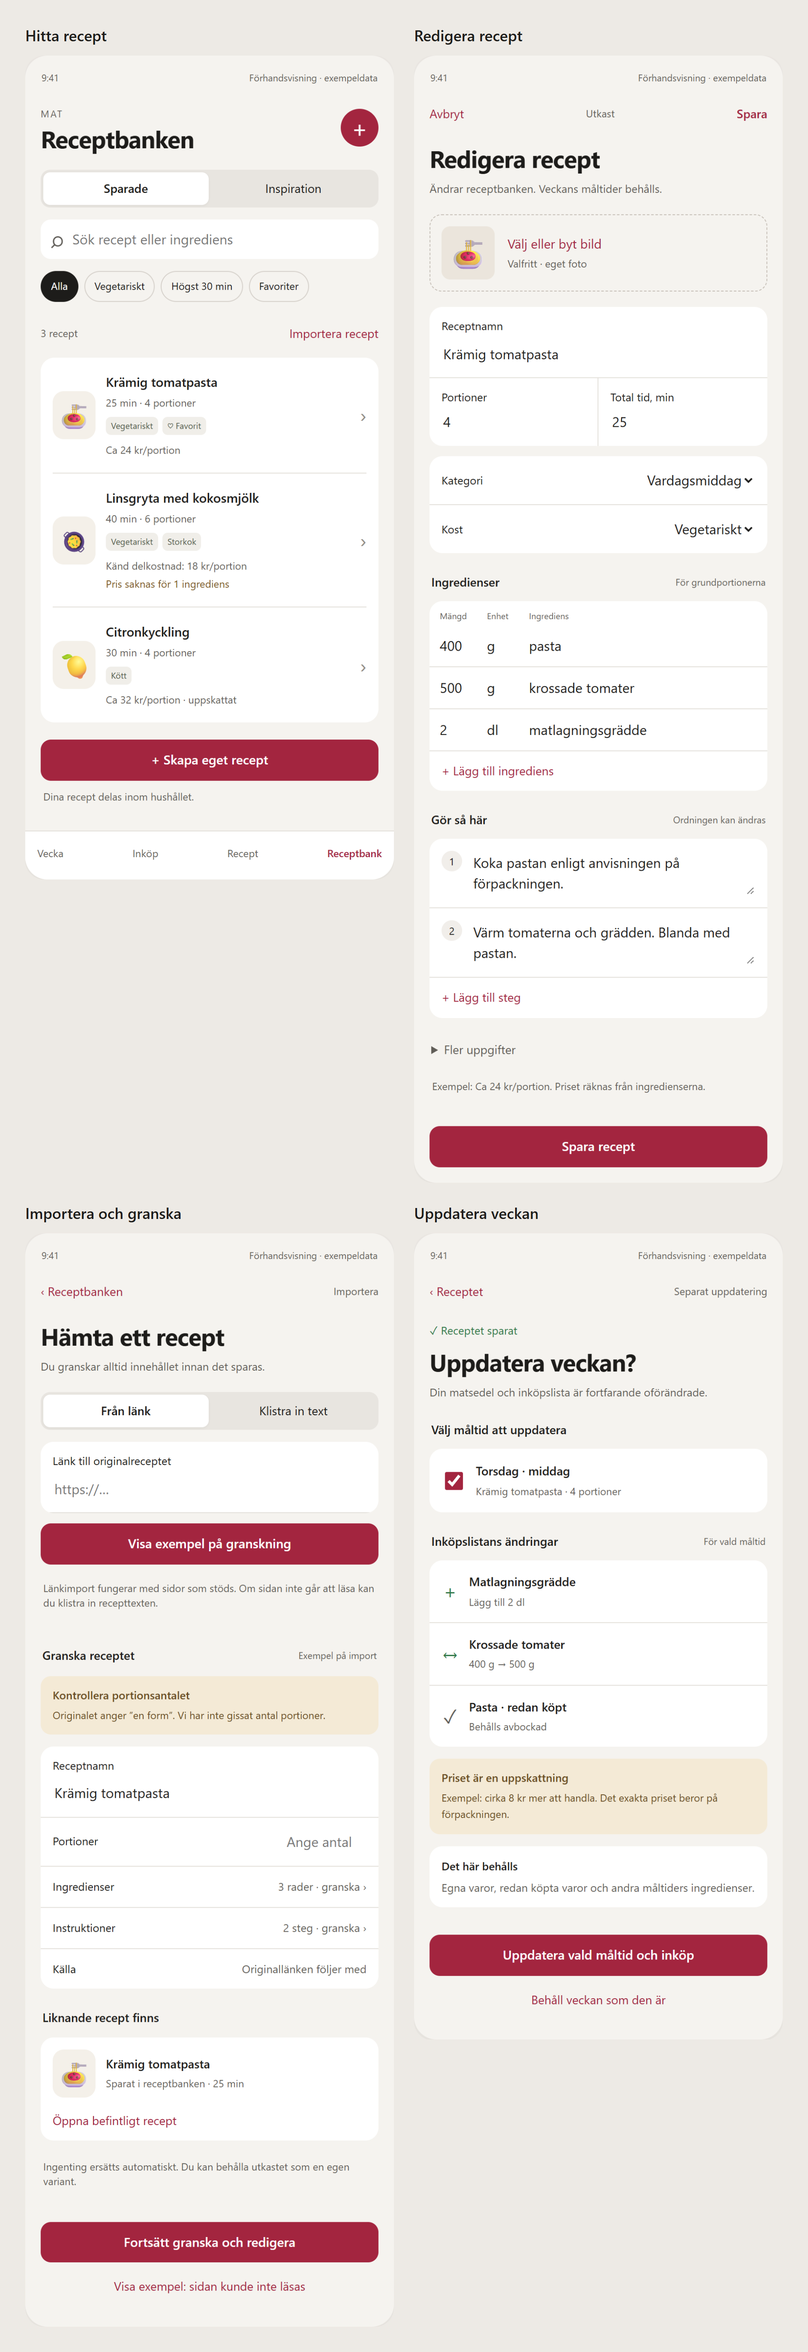
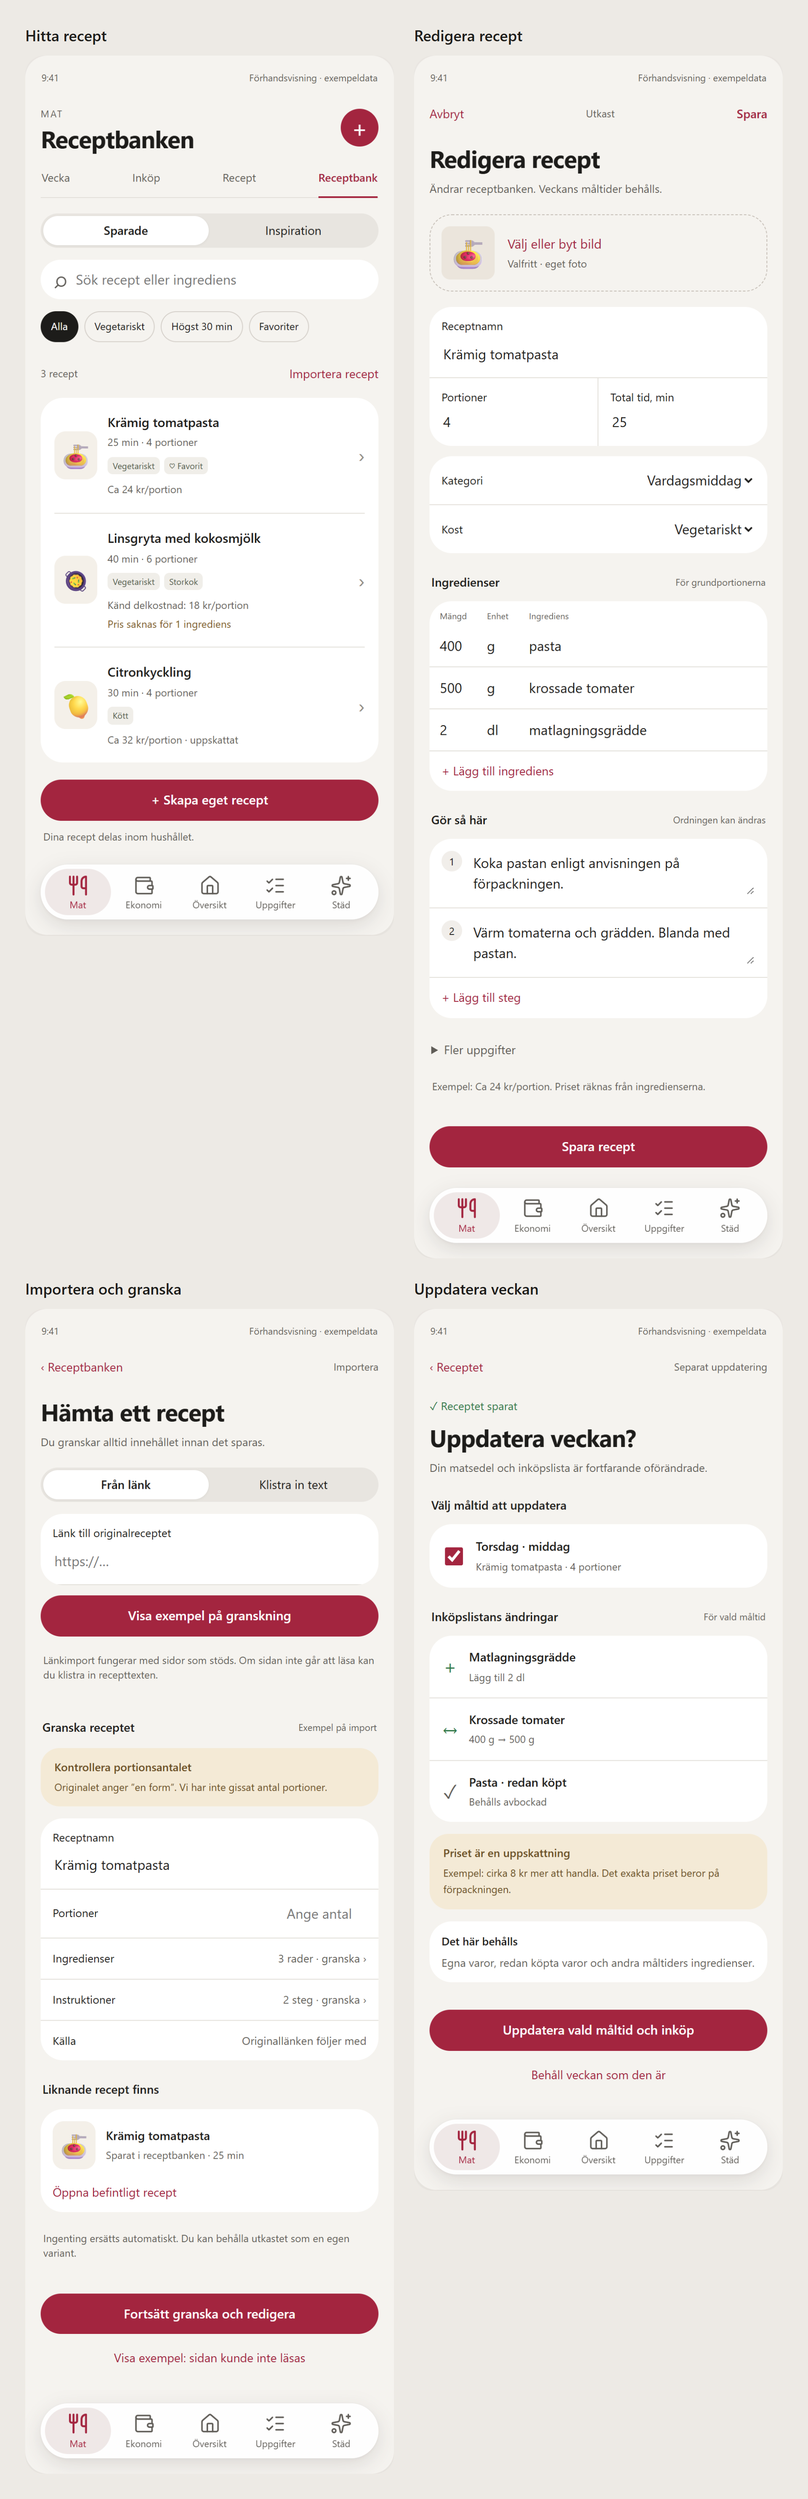
Receptskisser: följ Runda och Piller genom hela flödet
Gemensamma former och huvudmeny i utfällt och kompakt läge. Endast designunderlag.

Agent: Codex

diff --git a/docs/mockups/recipe-management.html b/docs/mockups/recipe-management.html
@@ -5,12 +5,14 @@
     <button type="button" data-screen="import" aria-pressed="false">Importera</button>
     <button type="button" data-screen="impact" aria-pressed="false">Uppdatera veckan</button>
   </nav>
+  <div class="rp-menu-preview" role="group" aria-label="Förhandsvisa piller-menyn"><span>Meny:</span><button type="button" data-menu="expanded" aria-pressed="true">Utfälld</button><button type="button" data-menu="compact" aria-pressed="false">Vid scrollning</button></div>
   <div class="rp-stage">
     <main class="rp-phone" aria-label="Hushållstavlan, ljus receptskiss">
       <div class="rp-status"><span>9:41</span><span>Förhandsvisning · exempeldata</span></div>
 
       <section data-page="library" aria-label="Receptbibliotek">
         <div class="rp-top"><div><span class="rp-eyebrow">MAT</span><h1>Receptbanken</h1></div><button class="rp-circle" data-go="editor" aria-label="Nytt recept">+</button></div>
+        <div class="rp-subnav" aria-label="Mat, underavdelningar"><span>Vecka</span><span>Inköp</span><span>Recept</span><span class="rp-active">Receptbank</span></div>
         <div class="rp-segment" aria-label="Receptkälla"><button aria-pressed="true" data-source="saved">Sparade</button><button aria-pressed="false" data-source="inspiration">Inspiration</button></div>
         <label class="rp-search"><span aria-hidden="true">⌕</span><input id="rp-query" type="search" placeholder="Sök recept eller ingrediens" aria-label="Sök recept eller ingrediens"></label>
         <div class="rp-filters" aria-label="Filtrera recepten"><button data-filter="all" aria-pressed="true">Alla</button><button data-filter="veg" aria-pressed="false">Vegetariskt</button><button data-filter="quick" aria-pressed="false">Högst 30 min</button><button data-filter="fav" aria-pressed="false">Favoriter</button></div>
@@ -23,7 +25,6 @@
         <div id="rp-empty" class="rp-empty" hidden>Inga recept matchar.<button class="rp-link" id="rp-clear">Rensa sökning och filter</button></div>
         <button class="rp-primary rp-bottom" data-go="editor">+ Skapa eget recept</button>
         <div class="rp-footnote">Dina recept delas inom hushållet.</div>
-        <div class="rp-app-nav" aria-label="Exempel på befintlig Mat-navigering"><span>Vecka</span><span>Inköp</span><span>Recept</span><span class="rp-active">Receptbank</span></div>
       </section>
 
       <section data-page="editor" aria-label="Receptredigering" hidden>
@@ -81,16 +82,29 @@
         <button class="rp-secondary" data-go="library">Behåll veckan som den är</button>
         <p class="rp-feedback" id="rp-impact-feedback" aria-live="polite" hidden></p>
       </section>
+      <div class="rp-global-menu-area">
+        <nav class="rp-global-menu" aria-label="Huvudmeny, piller">
+          <button type="button" aria-current="page" aria-label="Mat"><i data-lucide="utensils" aria-hidden="true"></i><span>Mat</span></button>
+          <button type="button" aria-label="Ekonomi"><i data-lucide="wallet" aria-hidden="true"></i><span>Ekonomi</span></button>
+          <button type="button" aria-label="Översikt"><i data-lucide="house" aria-hidden="true"></i><span>Översikt</span></button>
+          <button type="button" aria-label="Uppgifter"><i data-lucide="list-checks" aria-hidden="true"></i><span>Uppgifter</span></button>
+          <button type="button" aria-label="Städ"><i data-lucide="sparkles" aria-hidden="true"></i><span>Städ</span></button>
+        </nav>
+      </div>
+      <div class="rp-menu-message" aria-live="polite" hidden></div>
     </main>
   </div>
 </div>
 <style>
-#ht-recipe-design{--rp-bg:#f5f3ef;--rp-surface:#fff;--rp-ink:#1d1c1a;--rp-muted:#5f5c57;--rp-line:#e3e0da;--rp-accent:#a3253f;--rp-soft:#f3e8eb;--rp-green:#2d7645;--rp-warn:#7a5620;color-scheme:light;font:400 15px/1.45 -apple-system,BlinkMacSystemFont,'Segoe UI',sans-serif;padding:16px 8px 24px;color:var(--rp-ink)}
+#ht-recipe-design{--rp-bg:#f5f3ef;--rp-surface:#fff;--rp-ink:#1d1c1a;--rp-muted:#5f5c57;--rp-line:#e3e0da;--rp-accent:#a3253f;--rp-soft:#f3e8eb;--rp-green:#2d7645;--rp-warn:#7a5620;--rp-card-radius:26px;--rp-control-radius:999px;--rp-notice-radius:22px;color-scheme:light;font:400 15px/1.45 -apple-system,BlinkMacSystemFont,'Segoe UI',sans-serif;padding:16px 8px 24px;color:var(--rp-ink)}
 #ht-recipe-design *{box-sizing:border-box}
 #ht-recipe-design [hidden]{display:none!important}
 #ht-recipe-design .rp-preview-nav{display:flex;flex-wrap:wrap;gap:6px;justify-content:center;margin:0 auto 18px;max-width:470px}
 #ht-recipe-design .rp-preview-nav button{font:inherit;font-size:13px;border:1px solid var(--rp-line);border-radius:20px;padding:9px 12px;background:var(--rp-surface);color:var(--rp-ink)}
 #ht-recipe-design .rp-preview-nav button[aria-pressed=true]{background:var(--rp-ink);color:var(--rp-surface);border-color:var(--rp-ink)}
+#ht-recipe-design .rp-menu-preview{display:flex;align-items:center;justify-content:center;gap:8px;margin:0 auto 18px;font-size:12px;color:var(--rp-muted);flex-wrap:wrap}
+#ht-recipe-design .rp-menu-preview button{background:#fff;border:1px solid var(--rp-line);padding:7px 12px;border-radius:999px;font-size:12px;min-height:36px}
+#ht-recipe-design .rp-menu-preview button[aria-pressed=true]{background:var(--rp-ink);color:#fff;border-color:var(--rp-ink)}
 #ht-recipe-design .rp-stage{display:flex;justify-content:center}
 #ht-recipe-design .rp-phone{width:100%;max-width:430px;min-width:0;border-radius:26px;background:var(--rp-bg);padding:18px 18px 0;box-shadow:0 6px 28px #29221c12;overflow:hidden}
 #ht-recipe-design .rp-status{font-size:11px;color:var(--rp-muted);display:flex;justify-content:space-between;gap:12px;padding:0 1px 22px}
@@ -104,10 +118,10 @@
 #ht-recipe-design .rp-top{display:flex;justify-content:space-between;align-items:center;margin-bottom:20px;gap:10px}
 #ht-recipe-design .rp-eyebrow{font-size:11px;color:var(--rp-muted);letter-spacing:1.5px}
 #ht-recipe-design .rp-circle{background:var(--rp-accent);border:0;color:#fff;border-radius:50%;width:44px;font-size:27px;font-weight:400;flex-shrink:0}
-#ht-recipe-design .rp-segment{display:flex;padding:3px;background:#e8e5e0;border-radius:11px;margin-bottom:14px;gap:3px}
-#ht-recipe-design .rp-segment button{flex:1;border:0;background:transparent;border-radius:8px;font-size:14px;min-height:38px}
+#ht-recipe-design .rp-segment{display:flex;padding:3px;background:#e8e5e0;border-radius:var(--rp-control-radius);margin-bottom:14px;gap:3px}
+#ht-recipe-design .rp-segment button{flex:1;border:0;background:transparent;border-radius:var(--rp-control-radius);font-size:14px;min-height:34px}
 #ht-recipe-design .rp-segment button[aria-pressed=true]{background:#fff;box-shadow:0 1px 3px #0000000d;font-weight:600}
-#ht-recipe-design .rp-search{display:flex;gap:8px;align-items:center;padding:0 12px;background:#fff;border-radius:12px;margin:14px 0}
+#ht-recipe-design .rp-search{display:flex;gap:8px;align-items:center;padding:0 16px;background:#fff;border-radius:var(--rp-control-radius);margin:14px 0}
 #ht-recipe-design .rp-search span{font-size:26px;color:var(--rp-muted)}
 #ht-recipe-design .rp-search input{width:100%;min-width:0;border:0;background:transparent;min-height:46px;font-size:16px;color:var(--rp-ink)}
 #ht-recipe-design .rp-filters{display:flex;gap:7px;flex-wrap:wrap;margin-bottom:15px}
@@ -115,7 +129,7 @@
 #ht-recipe-design .rp-filters button[aria-pressed=true]{background:var(--rp-ink);border-color:var(--rp-ink);color:#fff}
 #ht-recipe-design .rp-list-head{display:flex;align-items:center;justify-content:space-between;font-size:12px;color:var(--rp-muted);margin-bottom:6px;gap:8px}
 #ht-recipe-design .rp-link{border:0;background:transparent;color:var(--rp-accent);padding:6px 0;font-size:14px}
-#ht-recipe-design .rp-recipes{background:#fff;border-radius:16px;padding:0 14px}
+#ht-recipe-design .rp-recipes{background:#fff;border-radius:var(--rp-card-radius);padding:0 16px}
 #ht-recipe-design .rp-recipe{border:0;border-bottom:1px solid var(--rp-line);background:transparent;text-align:left;display:flex;align-items:center;gap:12px;width:100%;padding:18px 0}
 #ht-recipe-design .rp-recipe:last-child{border-bottom:0}
 #ht-recipe-design .rp-grow{flex:1;min-width:0}
@@ -125,22 +139,23 @@
 #ht-recipe-design .rp-chevron{color:#8f8a83;font-size:24px}
 #ht-recipe-design .rp-price{margin-top:9px}
 #ht-recipe-design .rp-caution{color:var(--rp-warn)}
-#ht-recipe-design .rp-primary{width:100%;padding:13px 14px;border:0;border-radius:12px;background:var(--rp-accent);color:#fff;font-size:15px;font-weight:600}
+#ht-recipe-design .rp-primary{width:100%;padding:13px 18px;border:0;border-radius:var(--rp-control-radius);background:var(--rp-accent);color:#fff;font-size:15px;font-weight:600}
 #ht-recipe-design .rp-primary:disabled{background:#d7d2ce;color:#635e58}
 #ht-recipe-design .rp-bottom{margin-top:20px}
-#ht-recipe-design .rp-secondary{width:100%;padding:12px;border:0;background:transparent;color:var(--rp-accent);font-size:14px;margin:6px 0}
+#ht-recipe-design .rp-secondary{width:100%;padding:12px;border:0;border-radius:var(--rp-control-radius);background:transparent;color:var(--rp-accent);font-size:14px;margin:6px 0}
 #ht-recipe-design .rp-footnote{font-size:12px;color:var(--rp-muted);padding:10px 3px 18px}
-#ht-recipe-design .rp-app-nav{display:flex;justify-content:space-between;gap:8px;background:#fff;margin:12px -18px 0;padding:17px 14px 22px;font-size:12px;color:var(--rp-muted);border-top:1px solid var(--rp-line)}
+#ht-recipe-design .rp-subnav{display:flex;justify-content:space-between;gap:8px;margin:0 0 18px;padding:0 1px 13px;font-size:13px;color:var(--rp-muted);border-bottom:1px solid var(--rp-line)}
+#ht-recipe-design .rp-subnav .rp-active{border-bottom:2px solid var(--rp-accent);padding-bottom:12px;margin-bottom:-14px}
 #ht-recipe-design .rp-active{color:var(--rp-accent);font-weight:600}
 #ht-recipe-design .rp-toolbar{display:flex;align-items:center;justify-content:space-between;gap:12px;font-size:12px;color:var(--rp-muted);margin-top:-10px;margin-bottom:14px}
 #ht-recipe-design .rp-heavy{font-weight:600}
 #ht-recipe-design .rp-editor-head{margin-bottom:20px}
 #ht-recipe-design .rp-editor-head p{font-size:13px;line-height:1.55}
-#ht-recipe-design .rp-photo{position:relative;display:flex;align-items:center;gap:15px;border:1px dashed #c6bfb7;border-radius:14px;padding:13px;margin-bottom:18px;color:var(--rp-accent);overflow:hidden}
+#ht-recipe-design .rp-photo{position:relative;display:flex;align-items:center;gap:15px;border:1px dashed #c6bfb7;border-radius:var(--rp-card-radius);padding:13px;margin-bottom:18px;color:var(--rp-accent);overflow:hidden}
 #ht-recipe-design .rp-photo>span:first-child{font-size:34px;background:#ebe5dc;border-radius:10px;min-width:62px;height:62px;display:grid;place-items:center;overflow:hidden}
 #ht-recipe-design .rp-photo img{width:62px;height:62px;object-fit:cover}
 #ht-recipe-design .rp-photo input{position:absolute;inset:0;width:100%;height:100%;opacity:0}
-#ht-recipe-design .rp-group{background:#fff;border-radius:15px;margin:12px 0;overflow:hidden}
+#ht-recipe-design .rp-group{background:#fff;border-radius:var(--rp-card-radius);margin:12px 0;overflow:hidden}
 #ht-recipe-design .rp-field{display:flex;align-items:center;justify-content:space-between;gap:12px;padding:13px 14px;border-bottom:1px solid var(--rp-line);font-size:13px;min-width:0}
 #ht-recipe-design .rp-field:last-child{border-bottom:0}
 #ht-recipe-design .rp-field input,#ht-recipe-design .rp-field select{min-width:0;max-width:58%;width:140px;min-height:30px;border:0;background:transparent;text-align:right;color:var(--rp-ink);font-size:16px}
@@ -164,7 +179,7 @@
 #ht-recipe-design .rp-more summary{padding:10px 2px;min-height:44px}
 #ht-recipe-design .rp-check{display:flex;align-items:center;gap:10px;padding:14px}
 #ht-recipe-design input[type=checkbox]{accent-color:var(--rp-accent);width:21px;height:21px;flex-shrink:0}
-#ht-recipe-design .rp-notice{background:#f4ead6;color:#684b20;border-radius:12px;padding:13px 14px;margin:14px 0;font-size:13px}
+#ht-recipe-design .rp-notice{background:#f4ead6;color:#684b20;border-radius:var(--rp-notice-radius);padding:13px 16px;margin:14px 0;font-size:13px}
 #ht-recipe-design .rp-notice span{display:block;font-size:12px;margin-top:4px;line-height:1.6}
 #ht-recipe-design .rp-row{display:flex;justify-content:space-between;gap:12px;padding:14px;border-bottom:1px solid var(--rp-line);font-size:13px}
 #ht-recipe-design .rp-row:last-child{border:0}
@@ -178,11 +193,27 @@
 #ht-recipe-design .rp-muted{color:var(--rp-muted)}
 #ht-recipe-design .rp-wrap{flex-direction:column;gap:6px}
 #ht-recipe-design .rp-wrap>span:last-child{text-align:left}
-#ht-recipe-design .rp-feedback{padding:12px;background:#e6efe5;border-radius:10px;font-size:13px;color:#245d33;margin:12px 0}
+#ht-recipe-design .rp-feedback{padding:12px 16px;background:#e6efe5;border-radius:var(--rp-notice-radius);font-size:13px;color:#245d33;margin:12px 0}
 #ht-recipe-design .rp-empty{padding:22px 5px;text-align:center;color:var(--rp-muted)}
 #ht-recipe-design .rp-empty button{display:block;margin:auto}
 #ht-recipe-design section[data-page]:not([data-page=library]){padding-bottom:18px}
-@media(max-width:370px){#ht-recipe-design{padding:10px 0}#ht-recipe-design .rp-phone{padding:15px 12px 0}#ht-recipe-design .rp-app-nav{margin-left:-12px;margin-right:-12px}#ht-recipe-design h1{font-size:26px}#ht-recipe-design .rp-recipe{gap:8px}#ht-recipe-design .rp-food{width:42px;font-size:25px}#ht-recipe-design .rp-filters button{padding:6px 9px}}
+#ht-recipe-design .rp-global-menu-area{height:88px;display:flex;justify-content:center;align-items:start;padding:6px 0 18px;position:relative}
+#ht-recipe-design .rp-global-menu{width:100%;height:64px;display:flex;align-items:center;padding:4px;border-radius:999px;background:rgba(255,255,255,.94);border:.5px solid #fff;box-shadow:0 7px 22px #29221c20,0 1px 3px #29221c0a;backdrop-filter:blur(24px);transition:width .4s,height .4s,transform .4s}
+#ht-recipe-design .rp-global-menu button{flex:1;min-width:0;height:54px;min-height:44px;display:flex;flex-direction:column;align-items:center;justify-content:center;gap:3px;border:0;border-radius:999px;background:transparent;padding:4px 0;color:var(--rp-muted);font-size:11px;line-height:13px}
+#ht-recipe-design .rp-global-menu button[aria-current=page]{background:#efe8e7;color:var(--rp-accent)}
+#ht-recipe-design .rp-global-menu svg{width:25px;height:25px;stroke-width:1.7}
+#ht-recipe-design .rp-global-menu button[aria-current=page] svg{stroke-width:2.2}
+#ht-recipe-design .rp-global-menu button>span{max-height:14px;opacity:1;transition:opacity .2s,max-height .4s}
+#ht-recipe-design .rp-global-menu button>i{width:25px;height:25px;display:block}
+#ht-recipe-design .rp-phone.rp-compact .rp-global-menu-area{align-items:end;padding-bottom:0}
+#ht-recipe-design .rp-phone.rp-compact .rp-global-menu{width:172px;height:56px;transform:translateY(31px);padding:2px 8px 0;align-items:start}
+#ht-recipe-design .rp-phone.rp-compact .rp-global-menu button{height:22px;min-height:22px;gap:0;padding:0;border-radius:0}
+#ht-recipe-design .rp-phone.rp-compact .rp-global-menu button[aria-current=page]{background:transparent}
+#ht-recipe-design .rp-phone.rp-compact .rp-global-menu svg{width:20px;height:20px}
+#ht-recipe-design .rp-phone.rp-compact .rp-global-menu button>span{max-height:0;opacity:0;overflow:hidden}
+#ht-recipe-design .rp-menu-message{padding:12px;color:var(--rp-muted);font-size:12px;background:#fff;border-radius:22px;margin-bottom:16px}
+@media(prefers-reduced-motion:reduce){#ht-recipe-design .rp-global-menu,#ht-recipe-design .rp-global-menu *{transition:none}}
+@media(max-width:370px){#ht-recipe-design{padding:10px 0}#ht-recipe-design .rp-phone{padding:15px 12px 0}#ht-recipe-design h1{font-size:26px}#ht-recipe-design .rp-recipe{gap:8px}#ht-recipe-design .rp-food{width:42px;font-size:25px}#ht-recipe-design .rp-filters button{padding:6px 9px}}
 </style>
 <script>
 (()=>{
@@ -190,6 +221,8 @@ const root=document.getElementById('ht-recipe-design');
 const pages=[...root.querySelectorAll('[data-page]')];
 function screen(name){pages.forEach(p=>p.hidden=p.dataset.page!==name);root.querySelectorAll('[data-screen]').forEach(b=>b.setAttribute('aria-pressed',String(b.dataset.screen===name)));}
 root.querySelectorAll('[data-screen],[data-go]').forEach(b=>b.addEventListener('click',()=>screen(b.dataset.screen||b.dataset.go)));
+root.querySelectorAll('[data-menu]').forEach(b=>b.addEventListener('click',()=>{root.querySelector('.rp-phone').classList.toggle('rp-compact',b.dataset.menu==='compact');root.querySelectorAll('[data-menu]').forEach(x=>x.setAttribute('aria-pressed',String(x===b)));}));
+root.querySelectorAll('.rp-global-menu button').forEach((b,i)=>b.addEventListener('click',()=>{const msg=root.querySelector('.rp-menu-message');if(!i){screen('library');msg.hidden=true;}else{msg.textContent=b.getAttribute('aria-label')+' behåller appens befintliga vy. Den här skissen visar receptflödet.';msg.hidden=false;}}));
 let filter='all';const query=root.querySelector('#rp-query');
 function search(){const q=query.value.toLocaleLowerCase('sv').trim();let n=0;root.querySelectorAll('.rp-recipe').forEach(r=>{r.hidden=!(r.dataset.words.includes(q)&&(filter==='all'||r.dataset.tags.split(' ').includes(filter)));if(!r.hidden)n++;});root.querySelector('#rp-count').textContent=n+' recept';root.querySelector('#rp-empty').hidden=n!==0;}
 query.addEventListener('input',search);

diff --git a/docs/recipe-management-plan.md b/docs/recipe-management-plan.md
@@ -9,6 +9,7 @@ Status: endast analys, plan och fristående ljusa skisser. Ingen appfunktion imp
 - Bekräftat av Henrik: en receptändring lämnar redan planerade måltider orörda. En separat åtgärd erbjuder uppdatering av valda måltider, med förhandsvisning av inköpslistan.
 - Föreslaget, inte bekräftat: första importversionen behöver ingen betald AI-tjänst. Strukturerade receptsidor stöds; inklistrad text är reservvägen. Avvakta svar innan eventuell AI-integration.
 - Design ska godkännas innan produktionskod skrivs. Godkänd design ger inte publiceringstillstånd.
+- Designstyrning från Henrik: skisserna ska visa **Runda + Piller**. Receptvyerna ska återanvända appens gemensamma formval, färger, typografi, mellanrum och navigation; ingen separat receptdesign. Runda innebär kort med 26 px radie och kapslade kontroller/åtgärdsknappar. Piller är huvudmenyn med Mat/Ekonomi/Översikt/Uppgifter/Städ, inte Mat-delens underflikar; utfällt och kompakt scrolläge ska visas.
 - Behåll svenska UI 2.0, befintlig navigering och fungerande UI 1.0/3.0. Ingen ramverksändring eller omformatering av app.js.
 - Planen är för nuvarande hushållslagring. Konton för flera oberoende hushåll är ett separat projekt.
 
@@ -148,6 +149,8 @@ Skilj ”Ta bort från sparade”, ”Föreslå inte igen” och ”Arkivera mit
 Kör befintliga alla-flikar-/funktionskontroller och nya tester för faktiska risker. UI 2.0:s receptvyer får avsiktligt ändras; granska deras bilder separat i stället för att släppa alla visuella regressioner. Oförändrade vyer ska behålla tidigare utseende.
 
 Testmatris: telefon ljust/mörkt och vägg ljust/mörkt; relevant UI 1.0/3.0-kompatibilitet; gammal/uppdaterad Kod.gs; offline/återanslutning; två enheter; förlorat serversvar; gammalt recept från varje källa; samma id med olika snapshots; planerad portion/protein/storkok; ångra/återställ; importens felvägar; stora data och full lagring. Riktigt iPhone-tangentbord och Surface kräver Henriks hårdvarukontroll.
+
+Designmatris: verifiera Kantiga/Runda/Raka tillsammans med Fast/Svävande/Piller där recepten visas. Kontrollera gemensamma hörnradier, knappar, aktiva val, menyposition, mellanrum, textstorlekar, formulär, laddning/fel och hjälp mot befintliga Mat-, Översikt-, Uppgifter-, Städ- och Ekonomivyer. Ny receptkod ska använda de befintliga stilklasserna så att sparade enhetsval gäller genomgående. Det innebär ingen ny omdesign av övriga sidor i detta uppdrag.
 
 Visa faktiska ljusa screenshots av genomförandet och redovisa testad commit, resultat, begränsningar och nödvändig serveruppdatering. Spara arbetsgren/PR och överlämning. Vänta på ”Pusha”. Därefter: hämta aktuell main, ordna backup, kör godkänd serveruppdatering först med bakåtkompatibilitet, höj appversionen enligt AGENTS.md, skapa ångra-gren, publicera och verifiera Pages. En serverändring är också publicering och får inte ske i förväg.
 

diff --git a/OVERLAMNING.md b/OVERLAMNING.md
@@ -14,6 +14,7 @@ Claude och Codex: följ AGENTS.md avsnitt 7. Ersätt inaktuell status; historik 
 - Ägare Codex; gren `codex/recipe-management-plan`, endast dokumentation och fristående ljus prototyp. Plan: `docs/recipe-management-plan.md`; prototyp: `docs/mockups/recipe-management.html`; bilder: `outputs/recipe-management/`.
 - Henrik har bekräftat att receptredigering lämnar planerade måltider oförändrade; separat uppdatering kräver inköpsförhandsvisning. AI-fri import är föreslagen, svar om eventuell betald AI-integration inväntas.
 - Nästa steg: invänta designgodkännande före produktionskod; gemensamt receptuppslag, versionslagring och säker synk kommer före redigering/import. Ny Kod.gs behövs senare, ingen Google-data ändrad nu.
+- Henrik vill se Runda + Piller och kräver konsekvent design genom alla sidor/sektioner. Skisserna följer gemensamma former och visar femflikars huvudmeny i utfällt/kompakt läge; produktionskod ska återanvända appens stilval.
 - Kontroller: prototypens fyra ljusa bilder granskade; sök/filter, utkastfält, importreservväg och måltidsval provade, utan sidfel/horisontellt överflöde vid 320/390/736 px. Inga nya appfunktioner är implementerade eller testade.
 - Ingen sammanslagning, serveruppdatering eller publicering utan uttryckligt ”Pusha”. Väderändringen är fortfarande separat i PR #20.
 
